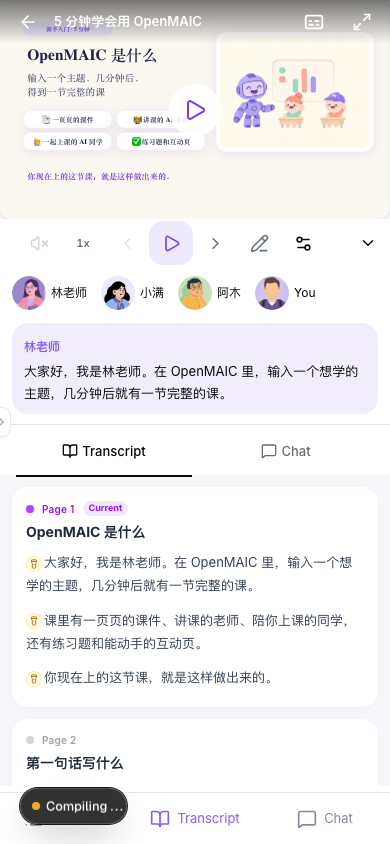
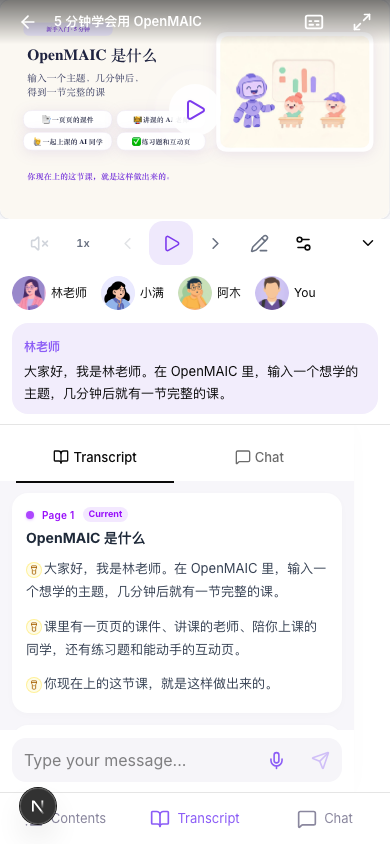
fix(classroom): keep phone composer visible after desktop resize

diff --git a/e2e/tests/mobile-classroom.spec.ts b/e2e/tests/mobile-classroom.spec.ts
@@ -157,8 +157,12 @@ test.describe('Mobile classroom with the shared playback surface', () => {
       stage: { ...guide.stage, id },
       scenes: guide.scenes.map((scene) => ({ ...scene, stageId: id })),
     });
+    await page.setViewportSize({ width: 1280, height: 900 });
     await page.goto(`/workspace?course=${id}`);
+    await expect(page.locator('[data-playback-stage]')).toBeVisible();
+    await page.setViewportSize({ width: 390, height: 844 });
     await expect(page.getByTestId('mobile-classroom-nav')).toBeVisible();
+    await expect(page.locator('.mobile-roundtable-input textarea')).toBeInViewport();
     await page.screenshot({ path: testInfo.outputPath('workspace-lesson-390.png') });
     await page.locator('.mobile-roundtable-input textarea').fill('Keep this workspace question');
     await page.setViewportSize({ width: 844, height: 390 });

diff --git a/components/classroom/mobile-classroom.css b/components/classroom/mobile-classroom.css
@@ -260,6 +260,11 @@ body:has([data-classroom-stage][data-mobile='true']) {
 [data-mobile='true'] .classroom-chat > div {
   border: none;
 }
+[data-mobile='true'] .classroom-chat [data-slot='tabs'] {
+  flex: 1 1 0;
+  min-height: 0;
+  height: auto;
+}
 [data-mobile='true'] .classroom-chat[data-open='false'] {
   display: none;
 }

diff --git a/docs/mobile-ui/2026-11-17-implementation/README.md b/docs/mobile-ui/2026-11-17-implementation/README.md
@@ -19,6 +19,7 @@ The existing adaptive UA hint/media query and visible viewport hook are reused. 
 
 - `MOBILE_WORKSPACE_E2E=true pnpm exec playwright test e2e/tests/mobile-classroom.spec.ts e2e/tests/course-end.spec.ts --workers=1`: 3 passed with workbench and agent-runtime flags enabled.
 - Includes portrait widths 360/390/430, landscape widths 480/568/844/932, a 390×400 short portrait viewport, viewport bounds/touch control sizes, fold/unfold, actual iframe interaction, iframe identity and internal state across rotation/panels/native fullscreen, participant modal inside fullscreen, draft preservation, quiz submission yielding 2/3, dynamic completion actions and workspace Back.
+- The hosted flow also opens at desktop width before switching to portrait. An in-app browser resize check exposed transcript tabs retaining the full panel height and clipping the composer; the mobile tabs now explicitly shrink to leave space for the stable footer. The corrected composer was manually checked in the running app and covered by the added transition assertion.
 - Related classroom/playback/chat/whiteboard unit suites: 299 passed across 28 files.
 - Legacy classroom/editor regression configuration: 6 browser cases passed (course completion, interactive fullscreen clipping, editor toggle/scene switching, and phone classroom); the workspace-specific case is intentionally skipped in that configuration and passes in the separate workbench-enabled run above.
 - TypeScript, changed-file formatting, source ESLint and 12-locale key alignment passed. Source ESLint retains the existing Roundtable shortcut-effect dependency warning. Repository-wide ESLint also passed with existing warnings.
